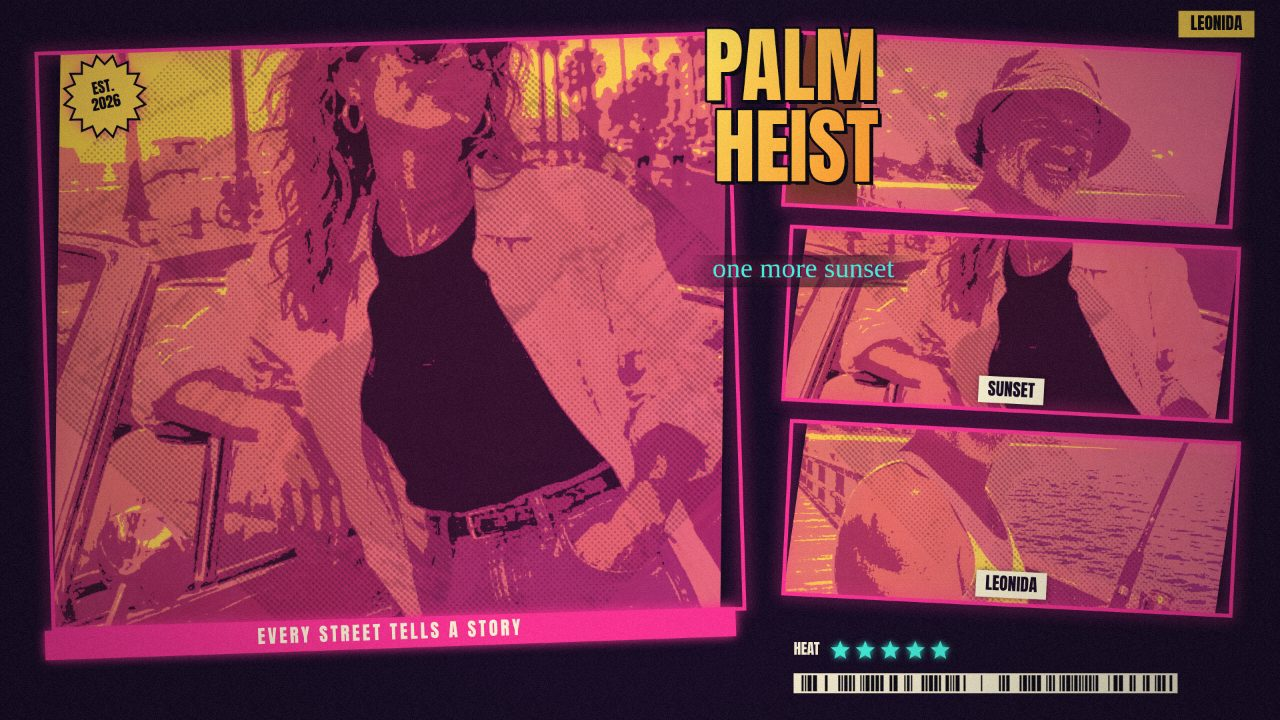
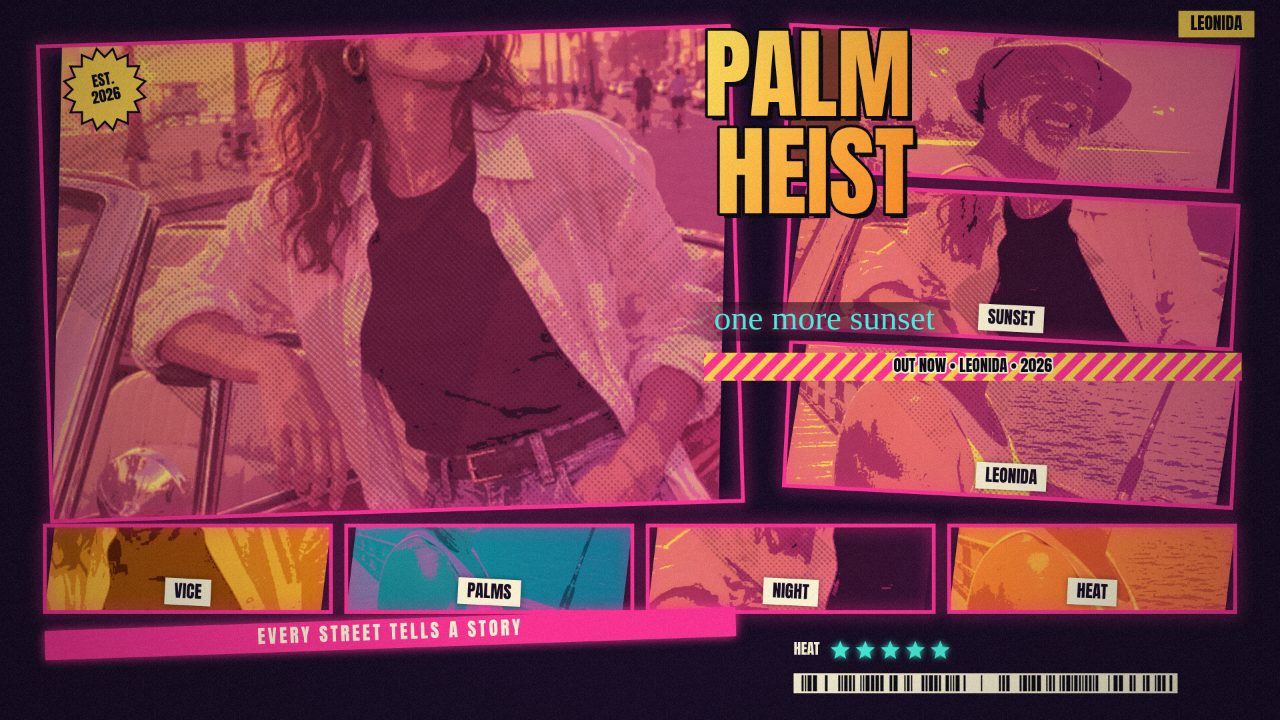
Fix v3: denser hero-left cover — bottom thumbnail strip, softer hero duotone, bigger title + striped bar
- panelRects hero-left: hero + 3 stacked panels shortened, 4-thumbnail
  bottom strip added (full width, distinct crops + grades: golden warm,
  neon, heatwave duotone, sunset warm) so the bottom-right dark margin is gone
- gradePanelPixels/gradePhotoToPanel: new soft mode (~60% duotone / 40%
  warm original, softer posterize) applied to the hero-left hero only;
  halftone kept, sunset colour now survives instead of flat magenta
- Title zone taller (0.38H -> 0.46H): title renders ~21% larger
- New striped release bar under the subtitle: OUT NOW • LEONIDA • 2026
  (fresh wording, not rank 1's)
- HEAT stars + barcode now sit in the dense bottom band under the strip
- Other layouts, grades, palette, fonts and editor untouched

diff --git a/app/src/cover.js b/app/src/cover.js
@@ -82,14 +82,18 @@ function mixRgb(a, b, t) {
   return [a[0] + (b[0] - a[0]) * t, a[1] + (b[1] - a[1]) * t, a[2] + (b[2] - a[2]) * t];
 }
 
-/** Posterize + duotone-map one panel's pixels, in place, for the given grade. */
-export function gradePanelPixels(imageData, gradeId) {
+/** Posterize + duotone-map one panel's pixels, in place, for the given grade.
+ *  `opts.soft` keeps more of the warm original colour (~60% duotone / 40%
+ *  original, softer posterize) instead of a flat duotone — used by the
+ *  hero-left hero so the sunset stays sunset-coloured, not flat magenta. */
+export function gradePanelPixels(imageData, gradeId, opts = {}) {
   const spec = GRADE_TABLE[gradeId] || GRADE_TABLE.heatwave;
   const data = imageData.data;
   const shadow = hexToRgb(spec.stops[0]);
   const mid = hexToRgb(spec.stops[1]);
   const high = hexToRgb(spec.stops[2]);
-  const steps = spec.levels - 1;
+  const steps = (opts.soft ? Math.max(spec.levels, 6) : spec.levels) - 1;
+  const keep = opts.soft ? 0.4 : 0.12; // fraction of the original colour kept
   for (let i = 0; i < data.length; i += 4) {
     const r = data[i];
     const g = data[i + 1];
@@ -98,9 +102,9 @@ export function gradePanelPixels(imageData, gradeId) {
     const post = Math.round(lum * steps) / steps;
     const mapped = post < 0.5 ? mixRgb(shadow, mid, post * 2) : mixRgb(mid, high, (post - 0.5) * 2);
     // Keep a whisper of the original hue so faces stay readable.
-    data[i] = mapped[0] * 0.88 + r * 0.12;
-    data[i + 1] = mapped[1] * 0.88 + g * 0.12;
-    data[i + 2] = mapped[2] * 0.88 + b * 0.12;
+    data[i] = mapped[0] * (1 - keep) + r * keep;
+    data[i + 1] = mapped[1] * (1 - keep) + g * keep;
+    data[i + 2] = mapped[2] * (1 - keep) + b * keep;
     if (spec.warm) {
       data[i] = Math.min(255, data[i] + spec.warm);
       data[i + 2] = Math.max(0, data[i + 2] - spec.warm * 0.6);
@@ -109,8 +113,9 @@ export function gradePanelPixels(imageData, gradeId) {
   return spec;
 }
 
-/** Grade one photo into an offscreen canvas the size of its panel. */
-export function gradePhotoToPanel(photo, panelW, panelH, crop, gradeId) {
+/** Grade one photo into an offscreen canvas the size of its panel.
+ *  `opts.soft` softens the duotone for the hero (see gradePanelPixels). */
+export function gradePhotoToPanel(photo, panelW, panelH, crop, gradeId, opts = {}) {
   const spec = GRADE_TABLE[gradeId] || GRADE_TABLE.heatwave;
   const w = Math.max(8, Math.min(900, Math.round(panelW)));
   const h = Math.max(8, Math.round((panelH / panelW) * w));
@@ -135,7 +140,7 @@ export function gradePhotoToPanel(photo, panelW, panelH, crop, gradeId) {
     octx.fillRect(0, 0, w, h);
   }
   const imageData = octx.getImageData(0, 0, w, h);
-  gradePanelPixels(imageData, gradeId);
+  gradePanelPixels(imageData, gradeId, opts);
   octx.putImageData(imageData, 0, 0);
   if (spec.halftone) paintHalftone(octx, imageData, w, h);
   // Sunset wash, soft-light so the duotone still reads through.
@@ -219,12 +224,45 @@ export function panelRects(layout, W, H) {
   }
   // Hero layouts.
   const mirror = layout === 'hero-right';
+  // Bottom thumbnail strip (hero-left only): 4 small panels across the full
+  // width, each a different crop + grade of the two sample photos, so the
+  // cover reads denser like a GTA poster bottom band. One warm, one neon,
+  // one duotone (heatwave), one warm sunset — they read as different shots.
+  const STRIP_GRADES = ['golden', 'neon', 'heatwave', 'sunset'];
+  const STRIP_CROPS = [
+    { ox: -0.55, oy: 0.1, zoom: 1.9 }, // tight, face-side
+    { ox: 0, oy: 0, zoom: 1 }, // wide
+    { ox: 0.55, oy: -0.35, zoom: 2.2 }, // detail
+    { ox: 0.35, oy: 0.35, zoom: 1.5 }, // low, car-side
+  ];
+  function stripRects(y, h) {
+    const gap = W * 0.012;
+    const sw = (W * 0.93 - gap * 3) / 4;
+    return [0, 1, 2, 3].map((i) => ({
+      x: W * 0.035 + i * (sw + gap), y, w: sw, h, rot: 0,
+      strip: true, grade: STRIP_GRADES[i], crop: STRIP_CROPS[i],
+    }));
+  }
   if (portrait) {
+    if (layout === 'hero-left') {
+      const hero = { x: W * 0.04, y: H * 0.04, w: W * 0.92, h: H * 0.40, rot: -0.03, hero: true };
+      const small = [0, 1, 2].map((i) => ({
+        x: W * (0.04 + i * 0.32), y: H * 0.47, w: W * 0.28, h: H * 0.19, rot: 0.05,
+      }));
+      return [hero, ...small, ...stripRects(H * 0.69, H * 0.10)];
+    }
     const hero = { x: W * 0.04, y: H * 0.04, w: W * 0.92, h: H * 0.46, rot: -0.03, hero: true };
     const small = [0, 1, 2].map((i) => ({
       x: W * (0.04 + i * 0.32), y: H * 0.53, w: W * 0.28, h: H * 0.22, rot: 0.05,
     }));
     return [hero, ...small];
+  }
+  if (layout === 'hero-left') {
+    const hero = { x: W * 0.035, y: H * 0.05, w: W * 0.54, h: H * 0.66, rot: -0.03, hero: true };
+    const small = [0, 1, 2].map((i) => ({
+      x: W * 0.615, y: H * (0.05 + i * 0.22), w: W * 0.35, h: H * 0.20, rot: 0.05,
+    }));
+    return [hero, ...small, ...stripRects(H * 0.73, H * 0.12)];
   }
   const hero = mirror
     ? { x: W * 0.42, y: H * 0.06, w: W * 0.54, h: H * 0.8, rot: 0.03, hero: true }
@@ -355,6 +393,37 @@ function drawBarcode(ctx, x, y, w, h, seed) {
   ctx.restore();
 }
 
+function drawStripedBar(ctx, x, y, w, h, text, scale) {
+  ctx.save();
+  // Yellow bar with repeating magenta diagonal stripes, dark text on top.
+  ctx.fillStyle = '#FFD24A';
+  ctx.fillRect(x, y, w, h);
+  ctx.save();
+  ctx.beginPath();
+  ctx.rect(x, y, w, h);
+  ctx.clip();
+  ctx.strokeStyle = '#FF2E93';
+  ctx.lineWidth = Math.max(6, 12 * scale);
+  const step = Math.max(18, 30 * scale);
+  ctx.beginPath();
+  for (let px = x - h; px < x + w + h; px += step) {
+    ctx.moveTo(px, y + h);
+    ctx.lineTo(px + h, y);
+  }
+  ctx.stroke();
+  ctx.restore();
+  ctx.font = `${Math.round(Math.max(16, 24 * scale))}px Anton, sans-serif`;
+  ctx.textAlign = 'center';
+  ctx.textBaseline = 'middle';
+  ctx.lineJoin = 'round';
+  ctx.lineWidth = Math.max(3, 5 * scale);
+  ctx.strokeStyle = '#FFF6D8';
+  ctx.strokeText(text, x + w / 2, y + h / 2 + 1);
+  ctx.fillStyle = '#05030F';
+  ctx.fillText(text, x + w / 2, y + h / 2 + 1);
+  ctx.restore();
+}
+
 function fitTitleSize(ctx, lines, maxW, start) {
   let size = start;
   while (size > 20) {
@@ -476,7 +545,14 @@ export function renderCover(canvas, state) {
     if (rect.titleCell) return; // center cell is the title block, not a photo
     const panel = state.panels[i % state.panels.length];
     const photo = panel && panel.photo >= 0 ? state.photos[panel.photo] : null;
-    const graded = gradePhotoToPanel(photo, rect.w, rect.h, panel ? panel.crop : { ox: 0, oy: 0, zoom: 1 }, state.grade);
+    // Strip panels carry their own crop + grade presets; a user drag-crop on
+    // a strip panel wins once it differs from the default crop.
+    const defaultCrop = panel && panel.crop && panel.crop.ox === 0 && panel.crop.oy === 0 && (panel.crop.zoom || 1) === 1;
+    const crop = rect.crop && defaultCrop ? rect.crop : (panel ? panel.crop : { ox: 0, oy: 0, zoom: 1 });
+    // Hero-left hero keeps its halftone but blends ~60% duotone with the
+    // warm original, so the sunset colour survives instead of flat magenta.
+    const softHero = !!rect.hero && state.layout === 'hero-left';
+    const graded = gradePhotoToPanel(photo, rect.w, rect.h, crop, rect.grade || state.grade, { soft: softHero });
     drawPanelWithSeam(ctx, graded, rect, W);
     // The top-right small panel sits under the title block, so its sticker
     // would hide behind the lettering — skip it there.
@@ -512,12 +588,21 @@ export function renderCover(canvas, state) {
       ? { x: W * 0.06, y: H * 0.3, w: W * 0.88, h: H * 0.2 }
       : { x: W * 0.03, y: H * 0.03, w: W * 0.44, h: H * 0.38 };
   } else {
+    // Hero-left: taller title zone so the title can grow ~20% (the block
+    // height cap in paintTitleBlock is what sizes it).
     zone = portrait
       ? { x: W * 0.06, y: H * 0.3, w: W * 0.88, h: H * 0.2 }
-      : { x: W * 0.55, y: H * 0.03, w: W * 0.42, h: H * 0.38 };
+      : { x: W * 0.55, y: H * 0.03, w: W * 0.42, h: H * 0.46 };
   }
   const isGrid = state.layout === 'nine-grid' || state.layout === 'center-3x3';
   const titleInfo = paintTitleBlock(ctx, state, zone, W, H, isGrid ? zone.h * 0.26 : 0);
+
+  // Hero-left striped release bar under the subtitle (fresh wording, not
+  // rank 1's "IN STORES SOMEWHERE SOON").
+  if (state.layout === 'hero-left') {
+    const barH = Math.max(30, 42 * scale);
+    drawStripedBar(ctx, titleInfo.zone.x, titleInfo.bottom + 12 * scale, titleInfo.zone.w, barH, 'OUT NOW • LEONIDA • 2026', scale);
+  }
 
   // Grid layouts have no free margin: the tagline, HEAT stars and barcode
   // live inside the title cell instead of as overlays on the photos.
@@ -543,7 +628,7 @@ export function renderCover(canvas, state) {
   if (state.tagline.trim() && !isGrid && state.layout !== 'full-bleed') {
     const barW = portrait ? W * 0.92 : W * 0.54;
     const barX = portrait ? W * 0.04 : (state.layout === 'hero-right' ? W * 0.42 : W * 0.035);
-    const barY = state.layout === 'tilted' ? H * 0.95 : (portrait ? H * 0.78 : H * 0.88);
+    const barY = state.layout === 'tilted' ? H * 0.95 : (portrait ? (state.layout === 'hero-left' ? H * 0.83 : H * 0.78) : H * 0.88);
     ctx.save();
     ctx.translate(barX + barW / 2, barY);
     ctx.rotate(-0.035);
